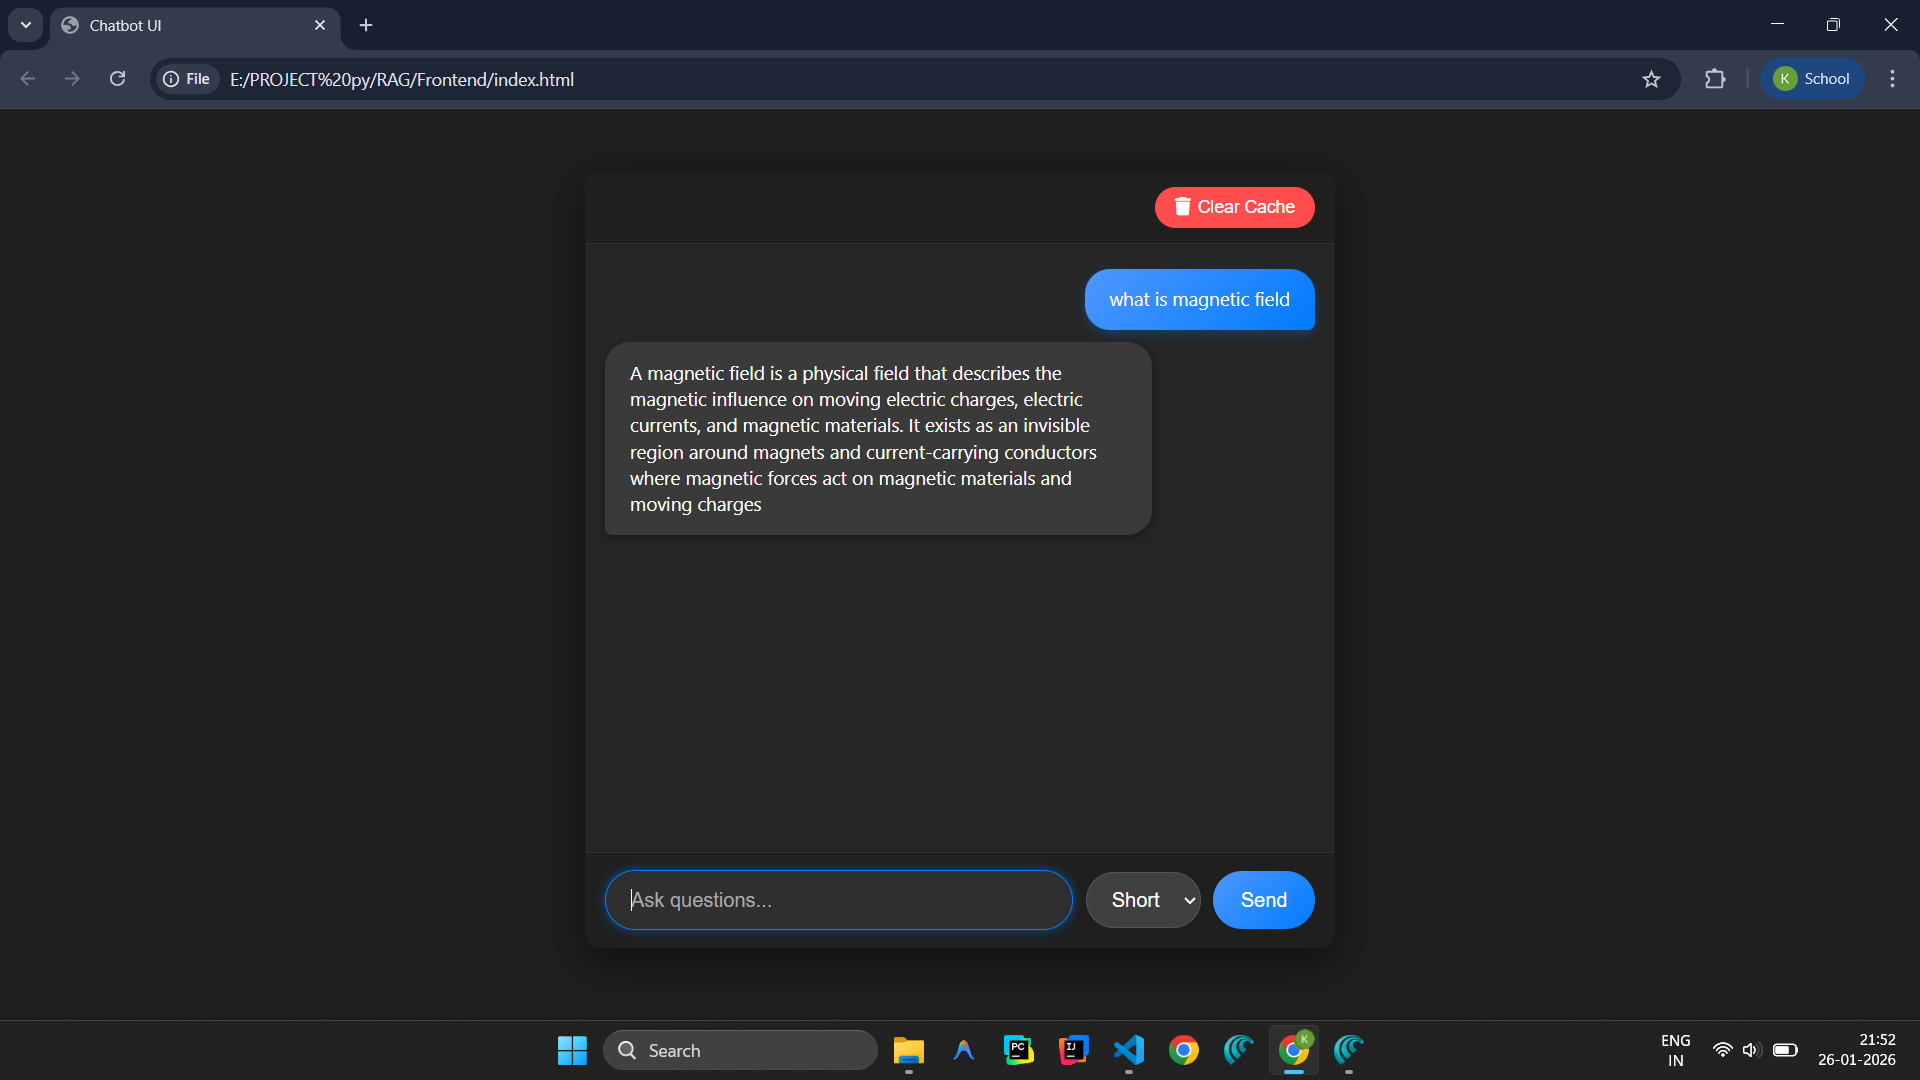
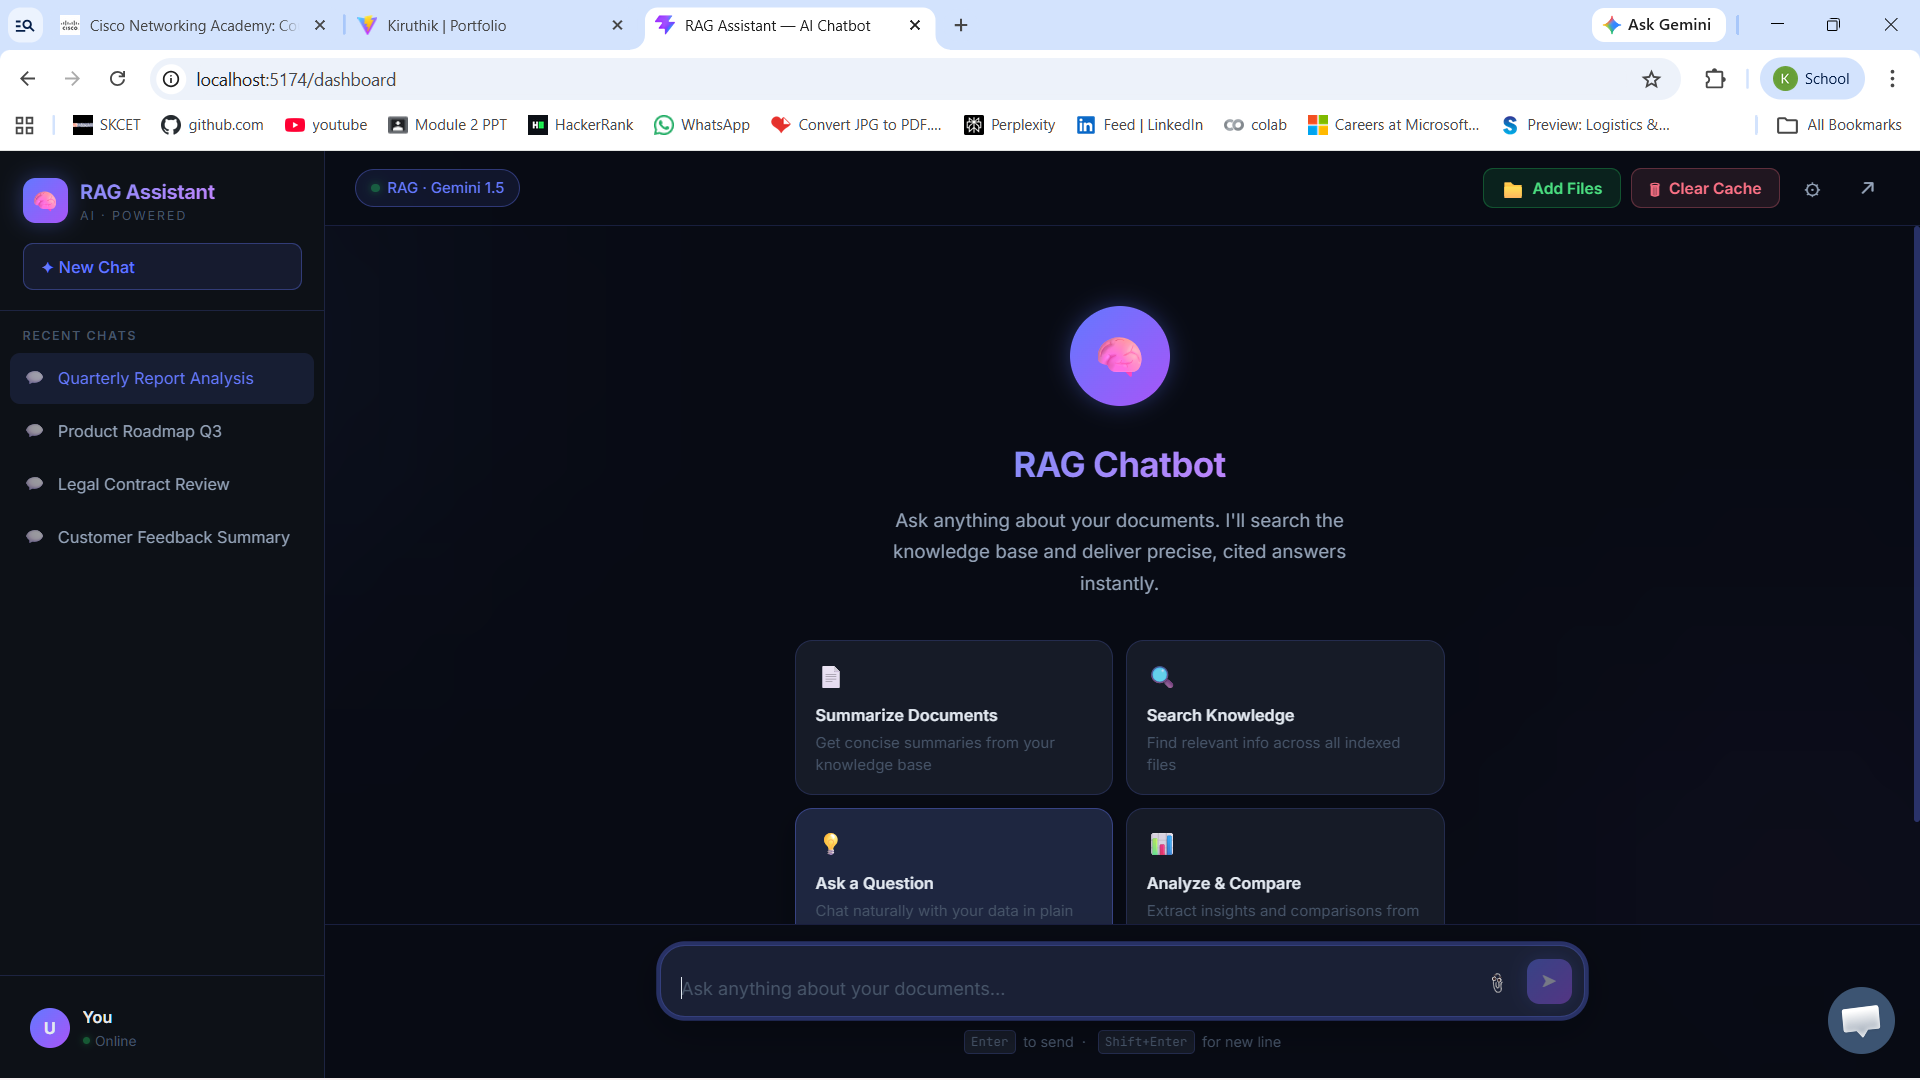
Updated photo and links

diff --git a/my-portfolio/src/components/Projects.jsx b/my-portfolio/src/components/Projects.jsx
@@ -6,7 +6,8 @@ import {
   SiReact, SiSpring, SiMysql,
   SiTailwindcss, SiExpress, SiMongodb,
   SiNodedotjs, SiPython, SiTensorflow,
-  SiScikitlearn, SiDatabricks  
+  SiScikitlearn, SiDatabricks,  
+  SiFastapi, SiHtml5, SiCss3, SiJavascript,
 } from 'react-icons/si';
 
 /* Map tech name → icon */
@@ -23,17 +24,30 @@ const TECH_ICONS = {
   "TensorFlow": <SiTensorflow size={14} />,
   "Scikit-learn": <SiScikitlearn size={14} />,
   "FAISS": <SiDatabricks size={14} />,
+  "HTML": <SiHtml5 size={14} />,
+  "CSS": <SiCss3 size={14} />,
+  "JavaScript": <SiJavascript size={14} />,
+  "FASTapi": <SiFastapi size={14} />,
 };
 
 const projects = [
   {
-    name: "Blog Post Management",
-    emoji: "📝",
-    description: "Full-stack blog system with CRUD, auth, and responsive interface.",
-    image: "/blog_post.png",
-    technologies: ["React", "Spring Boot", "MySQL"],
-    githubUrl: "https://github.com/iamneo-production/d2cc9c72-613d-4bc8-9a7e-2e30e920eaa7-a130de1c-fce0-4d3b-9c68-315265bea755/tree/SRC-Branch",
+    name: "Custom RAG Chatbot",
+    emoji: "🤖",
+    description: "Retrieval-Augmented Generation chatbot that answers queries from uploaded documents.",
+    image: "/RAG.png",
+    technologies: ["Python", "TensorFlow", "FAISS", "FASTapi"],
+    githubUrl: "https://github.com/kiruthik5000/RAG",
     liveUrl: null,
+  },
+  {
+  name: "WGAN-Based Intrusion Detection System",
+  emoji: "🛡️",
+  description: "An anomaly-based Intrusion Detection System that leverages Wasserstein GAN (WGAN) to learn benign network traffic patterns and detect anomalous activities. The system further employs an XGBoost classifier to identify and categorize detected attacks into specific threat types, enabling accurate and intelligent network security monitoring.",
+  image: "/ids.png",
+  technologies: ["Python", "WGAN", "XGBoost", "TensorFlow", "Scikit-learn", "FASTapi"],
+  githubUrl: "https://github.com/kiruthik5000/Capstone_project",
+  liveUrl: null,
   },
   {
     name: "AI Interview Preparation Platform",
@@ -41,7 +55,7 @@ const projects = [
     description: "AI-powered interview preparation platform featuring role-based mock interviews, real-time feedback, aptitude and coding assessments, personalized learning paths, and performance analytics to help candidates excel in technical and HR interviews.",
     image: "/ai-interview.png",
     technologies: ["React", "Spring Boot", "MySQL", "OpenAI API"],
-    githubUrl: "YOUR_GITHUB_URL",
+    githubUrl: "https://github.com/kiruthik5000/BehaviorTracker",
     liveUrl: null,
   },
   {
@@ -62,16 +76,7 @@ const projects = [
     githubUrl: "https://github.com/kiruthik5000/DineDirectory",
     liveUrl: null,
   },
-  {
-    name: "Food Image Classifier",
-    emoji: "🍱",
-    description: "Deep learning CNN classifier trained with transfer learning for food recognition.",
-    image: "/food_image.png",
-    technologies: ["Python", "TensorFlow", "Scikit-learn"],
-    githubUrl: "https://github.com/kiruthik5000/FoodImageClassification",
-    liveUrl: null,
-  },
-  {
+   {
     name: "Tetris Game",
     emoji: "🎮",
     description: "Classic Tetris with smooth animations, score tracking, and increasing difficulty.",
@@ -81,14 +86,23 @@ const projects = [
     liveUrl: null,
   },
   {
-    name: "Custom RAG Chatbot",
-    emoji: "🤖",
-    description: "Retrieval-Augmented Generation chatbot that answers queries from uploaded documents.",
-    image: "/RAG.png",
-    technologies: ["Python", "TensorFlow", "FAISS"],
-    githubUrl: "https://github.com/kiruthik5000/RAG",
+    name: "Food Image Classifier",
+    emoji: "🍱",
+    description: "Deep learning CNN classifier trained with transfer learning for food recognition.",
+    image: "/food_image.png",
+    technologies: ["Python", "TensorFlow", "Scikit-learn", "HTML5", "CSS3", "JavaScript"],
+    githubUrl: "https://github.com/kiruthik5000/FoodImageClassification",
     liveUrl: null,
   },
+  {
+    name: "Blog Post Management",
+    emoji: "📝",
+    description: "Full-stack blog system with CRUD, auth, and responsive interface.",
+    image: "/blog_post.png",
+    technologies: ["React", "Spring Boot", "MySQL"],
+    githubUrl: "https://github.com/iamneo-production/d2cc9c72-613d-4bc8-9a7e-2e30e920eaa7-a130de1c-fce0-4d3b-9c68-315265bea755/tree/SRC-Branch",
+    liveUrl: null,  
+  }  
 ];
 
 /* 3D magnetic tilt hook */